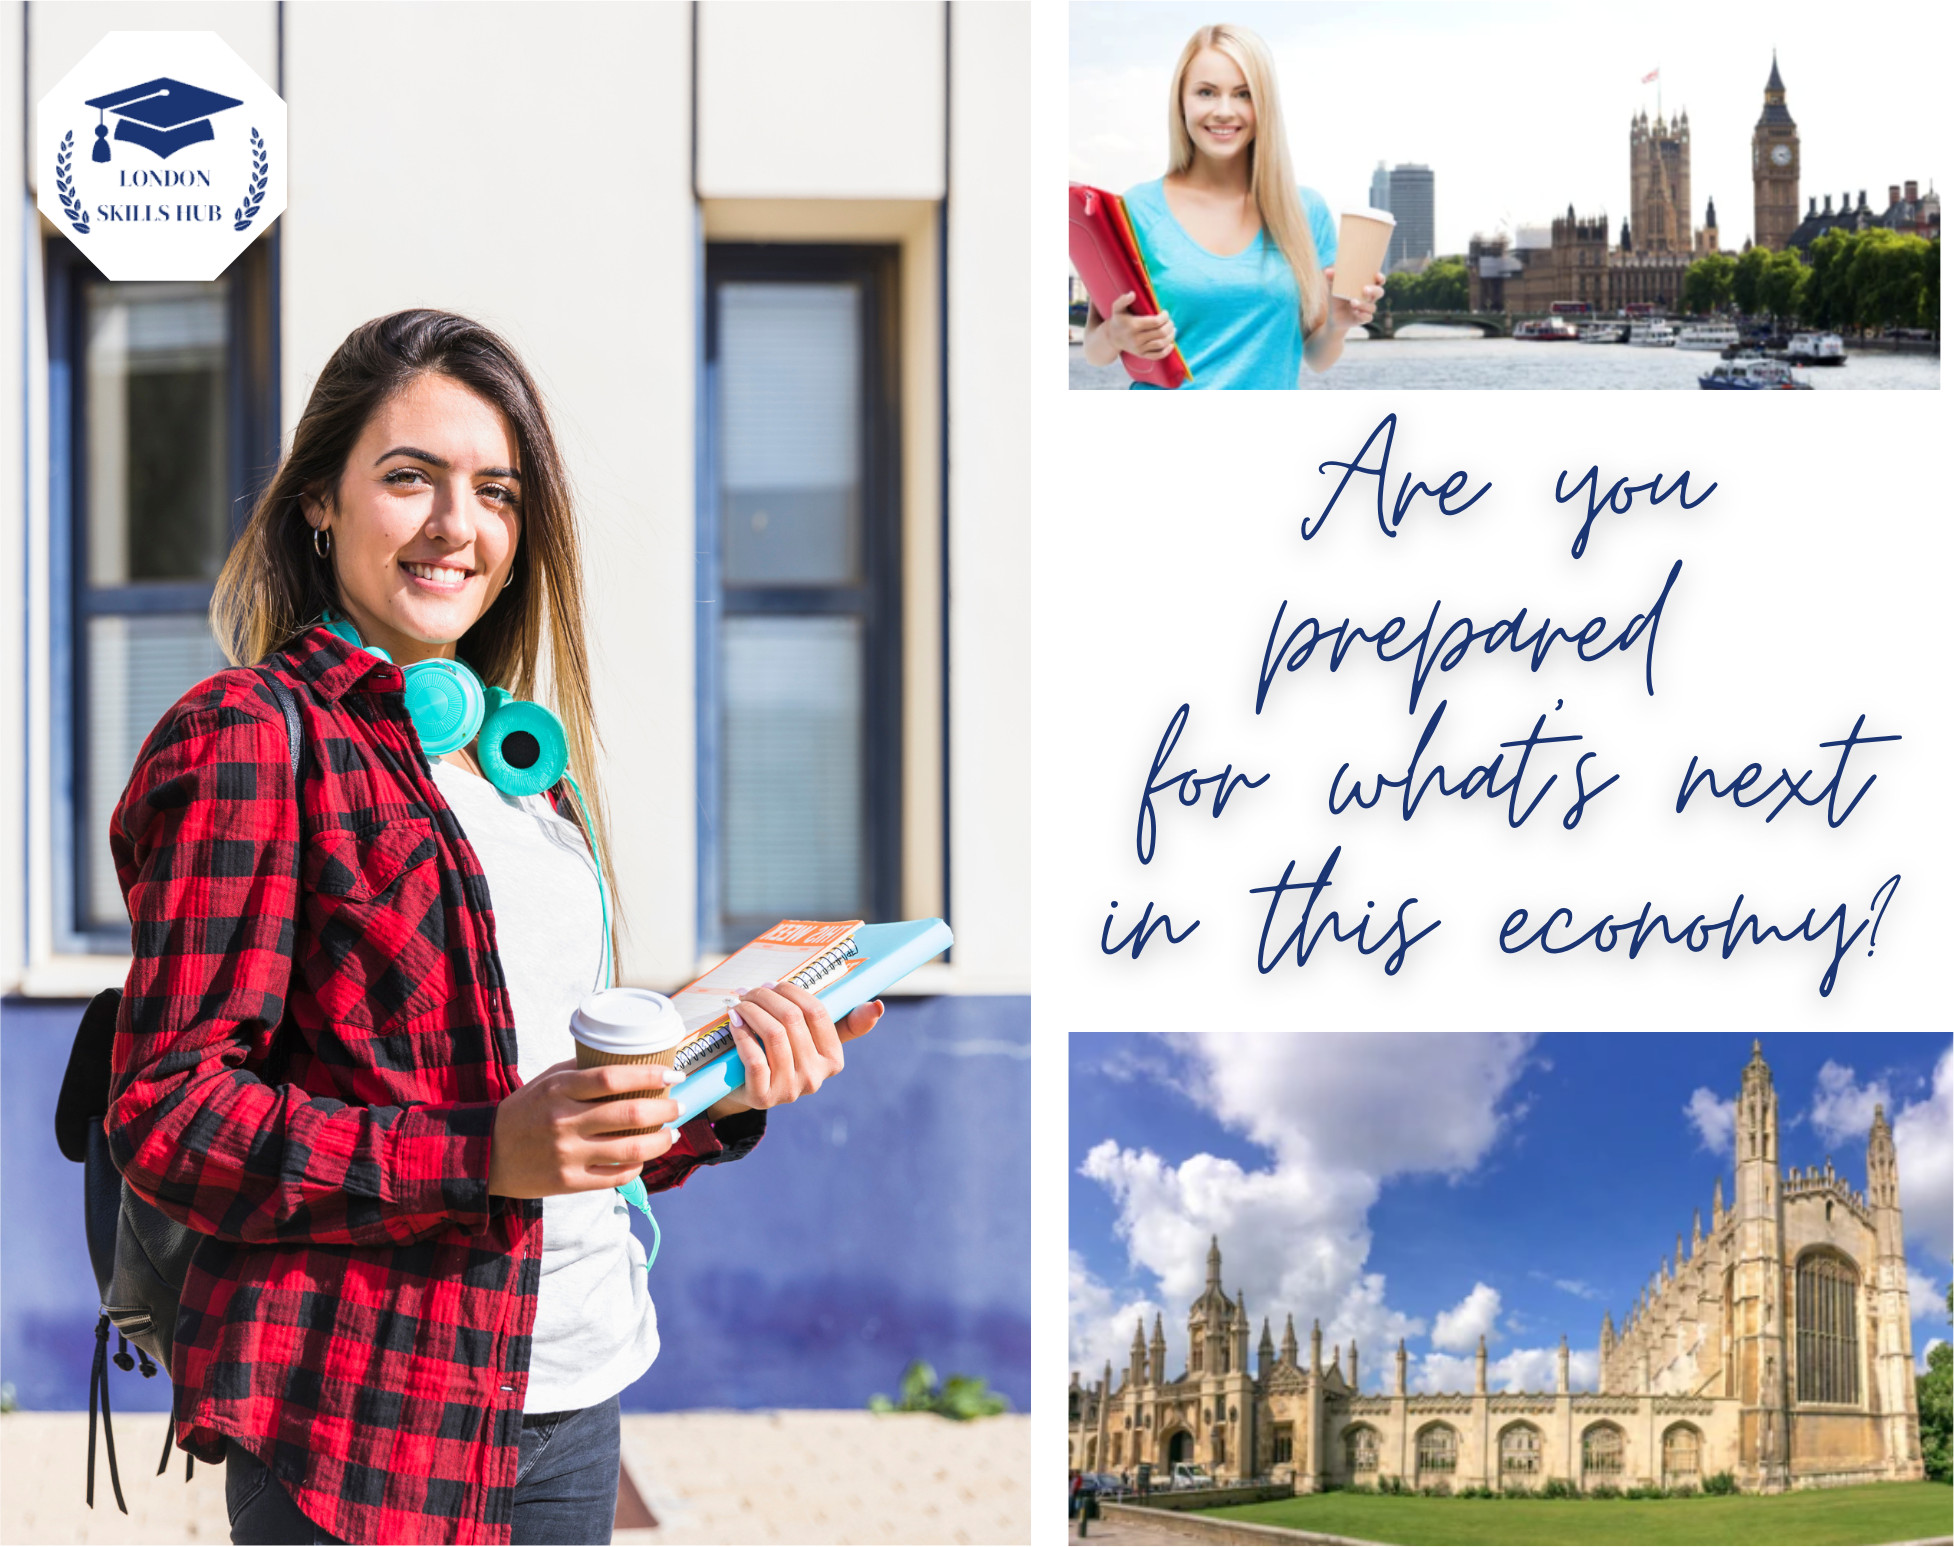
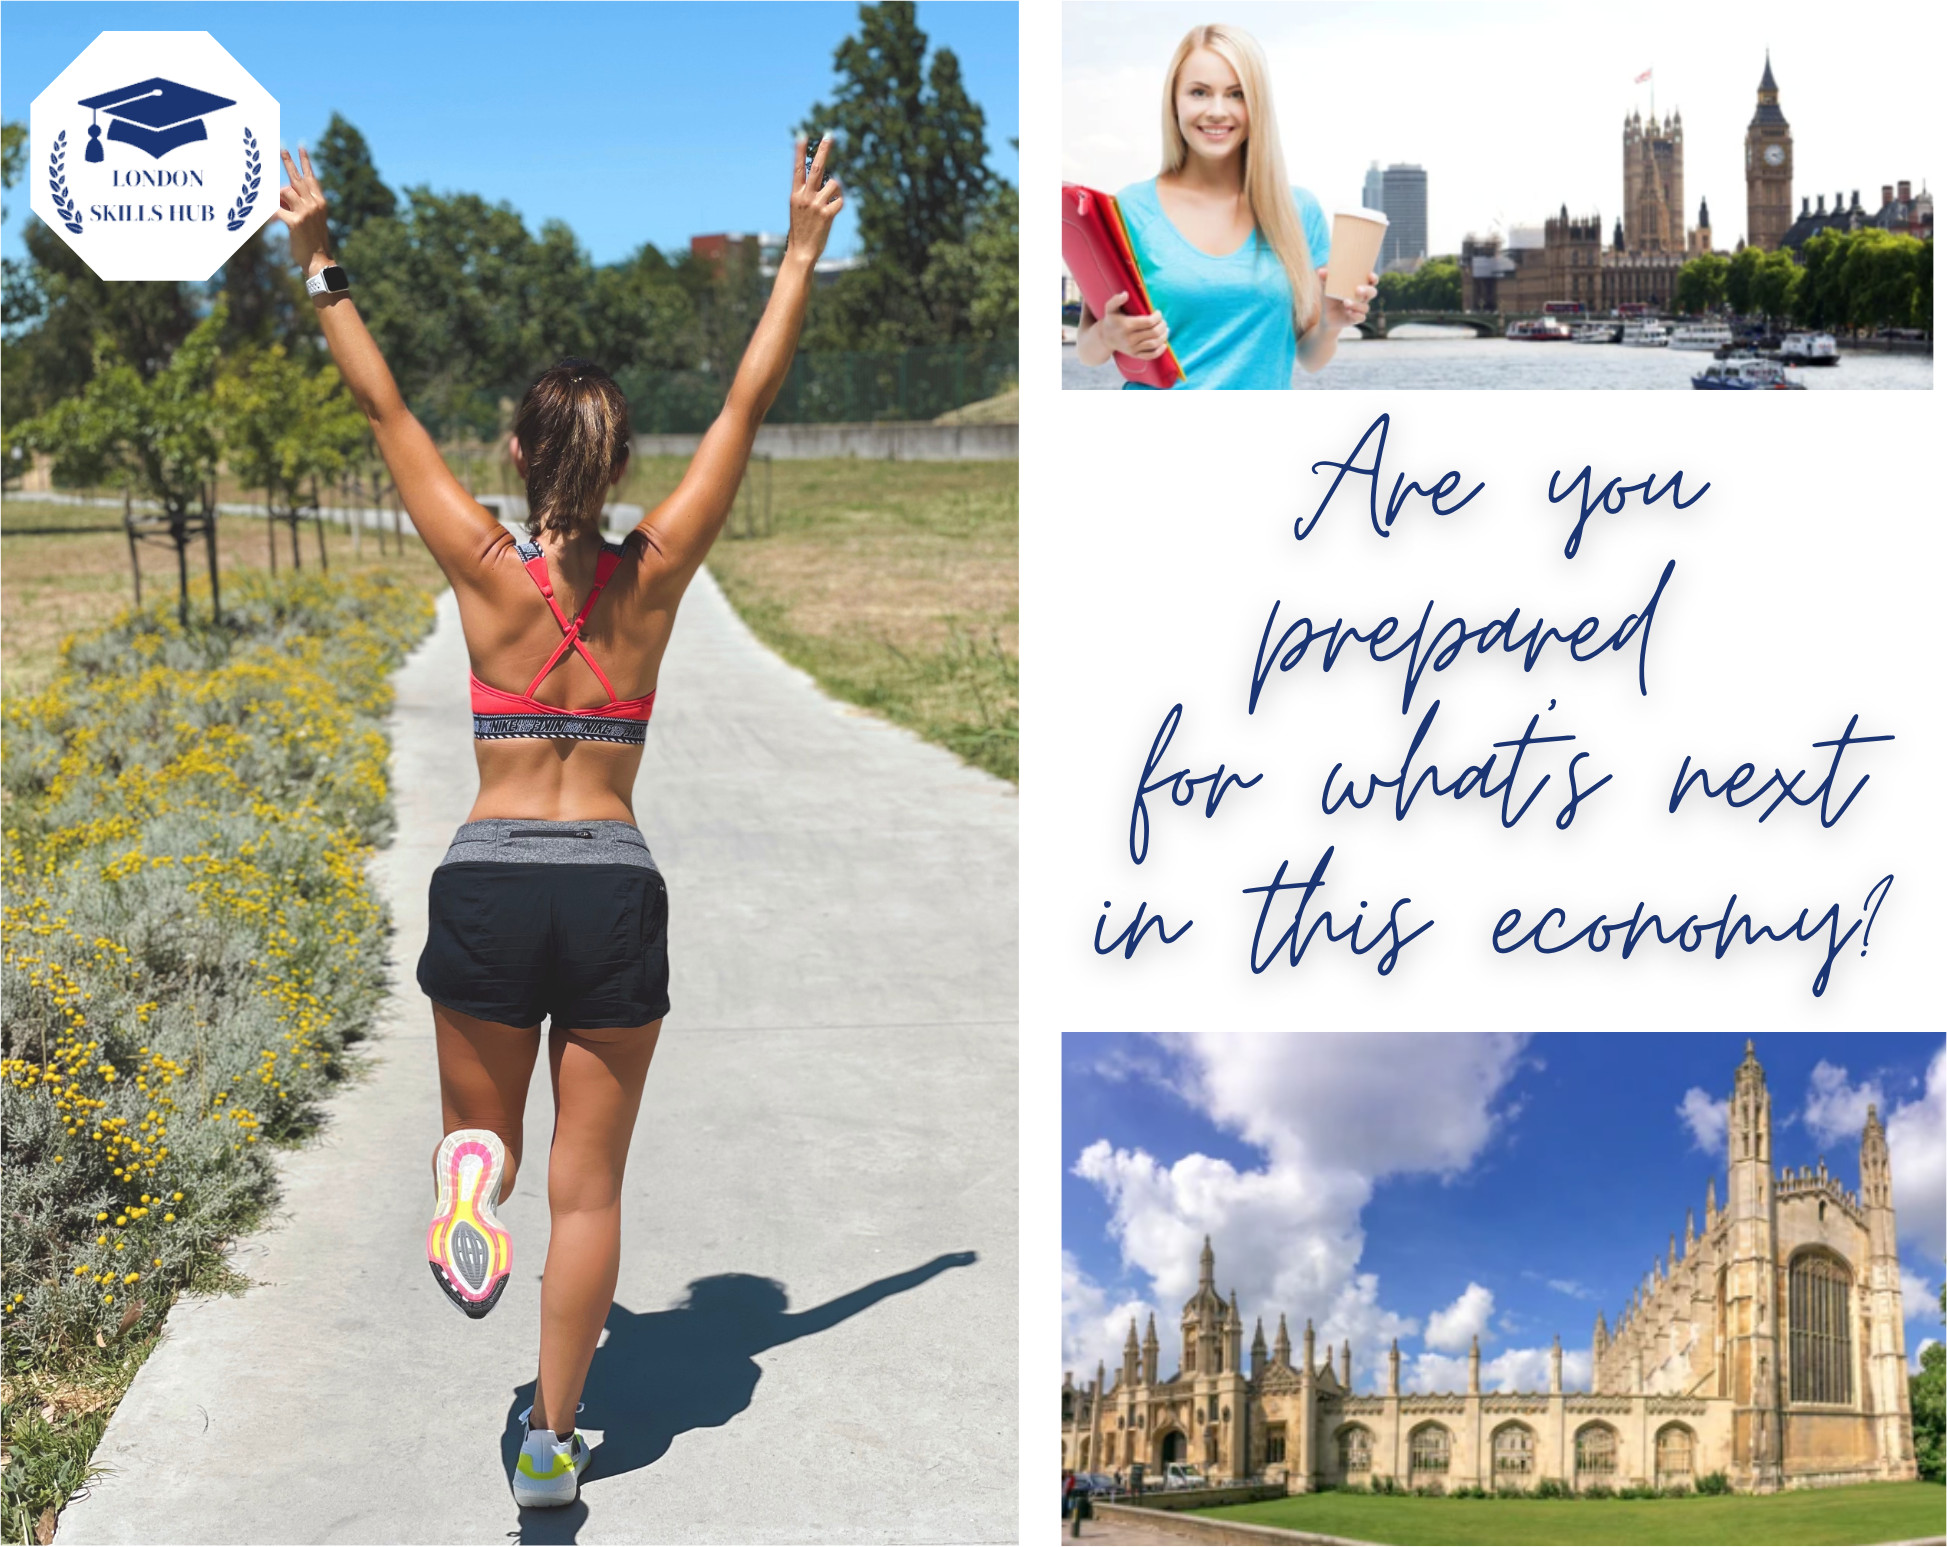
updated texts and images

diff --git a/londonskillshub/index.html b/londonskillshub/index.html
@@ -32,7 +32,9 @@
     }
 
     strong {
-      font-size: 1.25rem;
+      /* font-size: 1.25rem; */
+      font-weight: bold;
+      color: var(--secondaryColor);
     }
 
     img {
@@ -96,6 +98,7 @@
       font-weight: bold;
       cursor: pointer;
       /* width: 100%; */
+      line-height: 2rem;
       box-shadow: 0px 5px 10px var(--grey);
     }
     .btn:hover {
@@ -211,8 +214,8 @@
       <center>
         <div class="btn">
           <a href="#" target="_blank"
-            >Join some of the most brilliant video training courses in the world
-            at London Skills Hub</a
+            >Join some of the most brilliant Instructors & Video training
+            courses in the world at London Skills Hub</a
           >
         </div>
       </center>
@@ -260,13 +263,13 @@
           <div class="text">
             <strong
               >There has never been a better time than Right Now to unlock your
-              potential and become the best version of yourself!?</strong
+              potential and become the best version of yourself!</strong
             >
             <p>Don't be a round peg in a sqaure hole. Join this community.</p>
             <p>
               We are looking for 200 students to be a part of this movement.
             </p>
-            <strong>We have "Pre-Launch Offers".</strong><br />
+            <strong>Check out our "Pre-Launch Offers".</strong><br />
             <strong
               >Huge opportunity.<br />
               Don’t delay!</strong
